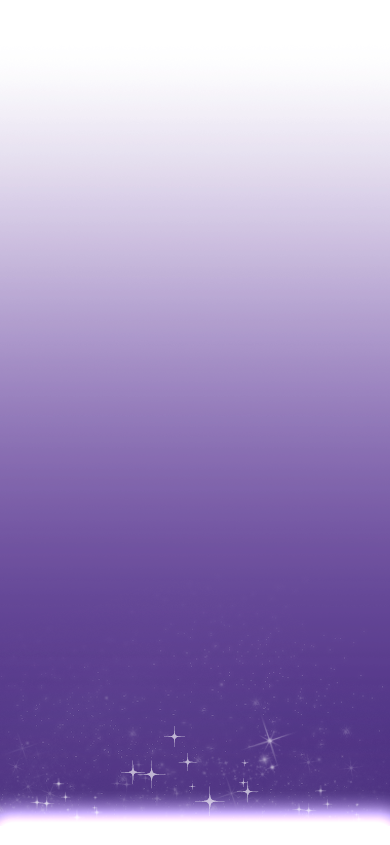
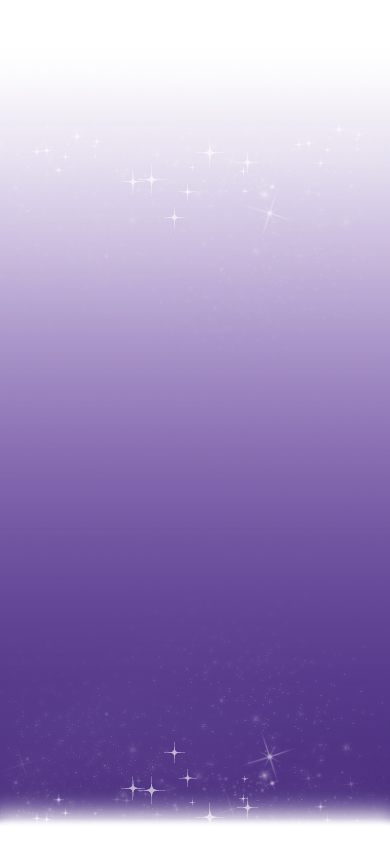
add section About style

Changed region(s): [[0.0, 0.8615, 1.0, 0.9846], [0.4308, 0.8615, 0.4615, 0.8923]]

diff --git a/css/style.css b/css/style.css
@@ -26,9 +26,11 @@ Sommaire
 :root {
     --main-bg-color: #0A0A0A;
 
-    --secondary-bg-color: #FFFFFF;
+    --secondary-bg-color: #F8F8F9;
 
     --call-to-action: #27206E;
+
+    --secondary-font-color: #A29BEE;
 }
 
 /* end Variables */
@@ -38,6 +40,14 @@ Sommaire
     margin: 0;
     padding: 0;
     font-family: Montserrat, sans-serif;
+}
+
+section {
+    background-color: white;
+}
+
+a {
+    text-decoration: none;
 }
 
 /* Nav */
@@ -67,17 +77,33 @@ nav div {
 
 .home {
     padding: 20px 50px;
-    display: grid;
+    display: flex;
+    flex-direction: column;
     height: 90vh;
+    background-image: url("../images/background_home.png");
+    background-repeat: no-repeat;
+    background-position: top;
+    background-size: 100%;
 }
 
 .home h1 {
     font-size: 36px;
-    margin: auto;
+    margin: 50px auto 0 auto;
+    color: var(--secondary-bg-color);
+    height: 36px;
+    /*text-shadow: 0 0 0.2em #F8F8F9, 0 0 0.2em #F8F8F9, 0 0 0.2em #F8F8F9;*/
 }
 
 .home h2 {
     font-size: 24px;
+    color: var(--secondary-font-color);
+    text-align: center;
+    margin: 0 auto 20px auto;
+    text-shadow: 0 0 0.2em var(--secondary-bg-color), 0 0 0.2em var(--secondary-bg-color);
+}
+
+.home p {
+
 }
 
 /* end Home section */
@@ -85,26 +111,46 @@ nav div {
 /* About section */
 
 .about {
-    display: grid;
+    display: flex;
+    flex-direction: column;
     padding: 20px;
     height: 100vh;
+    background-image: url("../images/background_about.png");
+    background-repeat: no-repeat;
+    background-size: 100%;
+    background-position: bottom;
 }
 
 .about h2 {
-    margin: auto;
+    margin: 30px auto;
     text-align: center;
 }
 
 .about img {
-    margin: auto;
+    margin: 0 auto;
+    width: 100px;
+    height: 100px;
 }
 
 .about p {
-    margin: auto;
+    margin: 30px auto;
+    text-align: center;
+    padding: 0 10px;
 }
 
-.about div {
+.button {
+    display: flex;
     margin: auto;
+    justify-content: center;
+    align-items: center;
+    box-shadow: 0 0 0.2em var(--secondary-bg-color), 0 0 0.2em var(--secondary-bg-color);
+    border-radius: 25px;
+    max-width: 150px;
+    min-height: 50px;
+}
+
+.about a {
+    color: var(--secondary-font-color);
 }
 
 /* end About section */
@@ -117,6 +163,11 @@ nav div {
     grid-gap: 10px;
     grid-auto-rows: minmax(100px, auto);
     padding: 20px;
+    min-height: 1320px;
+    background-image: url("../images/background_features.png");
+    background-repeat: no-repeat;
+    background-size: 100%;
+    background-position: center;
 }
 
 .features h2 {
@@ -163,6 +214,11 @@ nav div {
     grid-auto-rows: minmax(100px, auto);
     padding: 20px;
     text-align: center;
+    min-height: 550px;
+    background-image: url("../images/background_available.png");
+    background-repeat: no-repeat;
+    background-size: 100%;
+    background-position: top;
 }
 
 .available h2 {

diff --git a/index.html b/index.html
@@ -18,9 +18,9 @@
 </nav><!-- end Nav -->
 
 <section class="home">
-    <h1>Name's app</h1>
+    <h1>StarApp</h1>
 
-    <h2>Slogan</h2>
+    <h2>Shine with your App</h2>
 
     <p>text description</p>
 
@@ -29,11 +29,27 @@
 <section class="about">
     <h2>About the App</h2>
 
-    <img src="" alt="Logo">
+    <img src="images/logo.png" alt="Logo">
 
-    <p>about description</p>
+    <p>
 
-    <div class="button">Contact us</div>
+        Lorem ipsum dolor sit amet, consectetur adipiscing elit. Aenean dignissim eu erat sit amet pretium. Pellentesque
+        in semper erat. Sed eu nibh arcu. Nulla ultricies, tortor at varius faucibus, erat lorem pharetra lorem, eu.
+        <br>
+        <br>
+        Vulputate nisi purus ac massa. Morbi tincidunt at orci vitae posuere. Aenean scelerisque sit amet massa sed
+        placerat. Aenean neque dolor, tincidunt in felis vitae, feugiat convallis massa.
+        <br>
+        <br>
+        Integer quis justo vitae lectus fermentum tincidunt vel et risus. Sed molestie at magna at commodo. Nam purus
+        ipsum, dictum quis risus vel, viverra aliquet lorem. Maecenas iaculis est sit amet justo varius elementum.
+
+
+    </p>
+
+    <a href="#contact">
+        <div class="button">Contact us</div>
+    </a>
 </section><!-- end Section About -->
 
 <section class="features">
@@ -125,7 +141,7 @@
 
 </section> <!-- end section Price -->
 
-<section class="contact">
+<section id="contact" class="contact">
     <h2>Contact</h2>
 
     <form action="">
